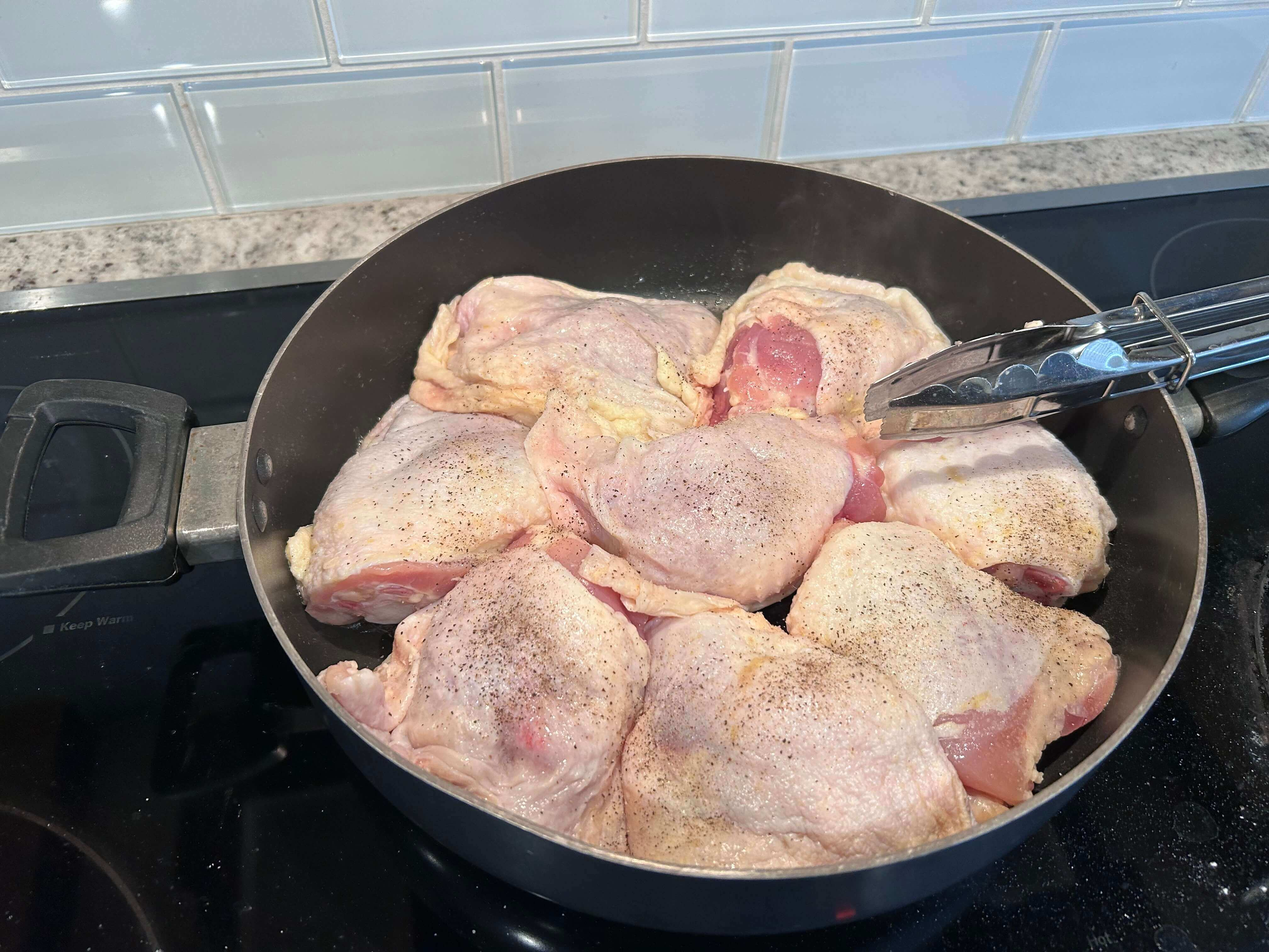
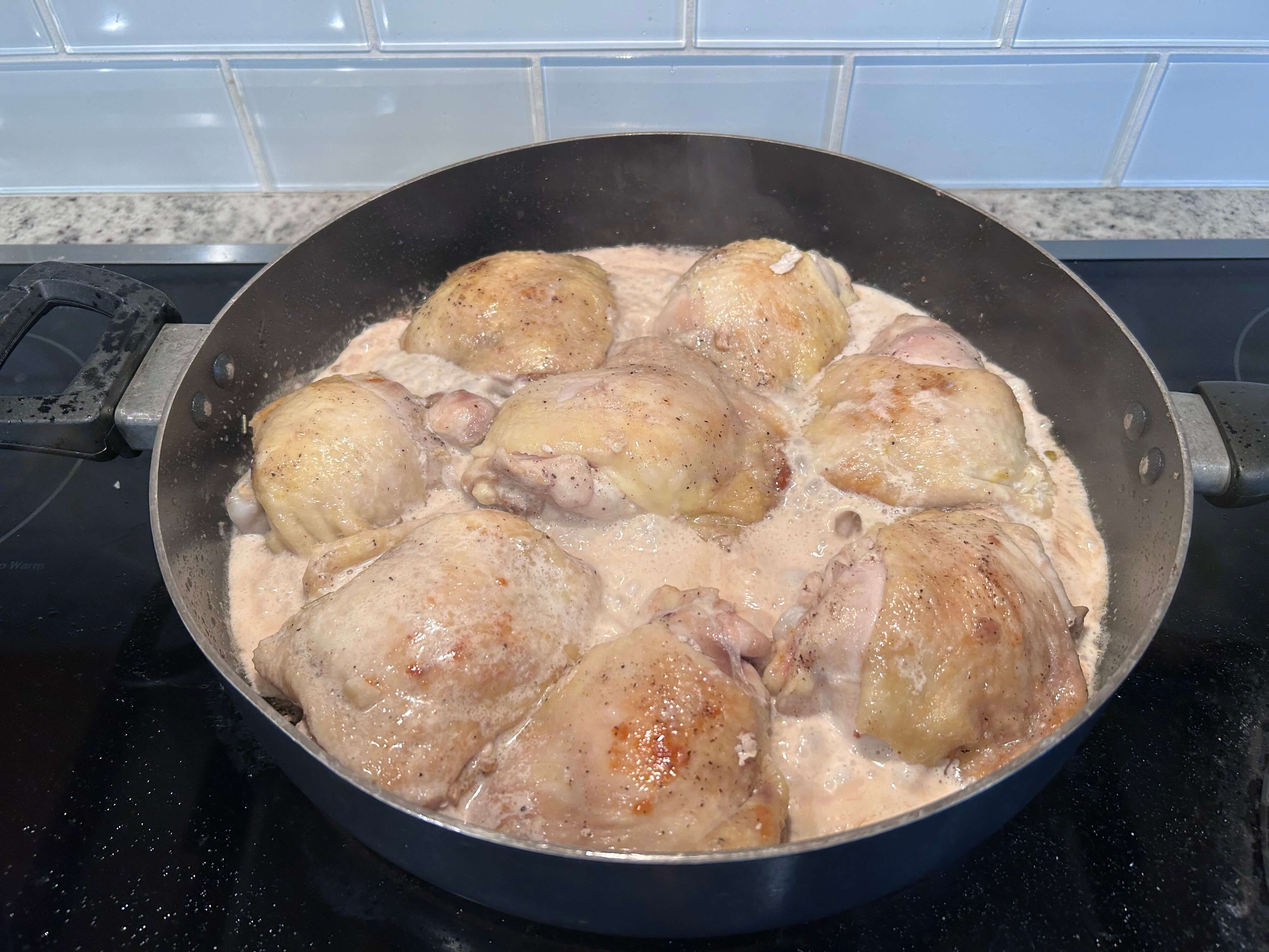
reduce pan fried chicken thigh images

diff --git a/server/data/recipes/pan-fried-chicken-thighs.js b/server/data/recipes/pan-fried-chicken-thighs.js
@@ -1,26 +1,13 @@
 const thigh1 = '../assets/Products/pan-fried-chicken-thigh-1.jpeg';
 const thigh2 = '../assets/Products/pan-fried-chicken-thigh-2.jpeg';
-// const thigh3 = '../assets/Products/pan-fried-chicken-thigh-3.jpeg';
-const thigh4 = '../assets/Products/pan-fried-chicken-thigh-4.jpeg';
-const thigh5 = '../assets/Products/pan-fried-chicken-thigh-5.jpeg';
-const thigh6 = '../assets/Products/pan-fried-chicken-thigh-6.jpeg';
-const thigh7 = '../assets/Products/pan-fried-chicken-thigh-7.jpeg';
-const thigh8 = '../assets/Products/pan-fried-chicken-thigh-8.jpeg';
-// const thigh9 = '../assets/Products/pan-fried-chicken-thigh-9.jpeg';
-const thigh10 = '../assets/Products/pan-fried-chicken-thigh-10.jpeg';
-const thigh11 = '../assets/Products/pan-fried-chicken-thigh-11.jpeg';
-const thigh12 = '../assets/Products/pan-fried-chicken-thigh-12.jpeg';
-const thigh13 = '../assets/Products/pan-fried-chicken-thigh-13.jpeg';
-const thigh14 = '../assets/Products/pan-fried-chicken-thigh-14.jpeg';
-const thigh15 = '../assets/Products/pan-fried-chicken-thigh-15.jpeg';
-// const thigh16 = '../assets/Products/pan-fried-chicken-thigh-16.jpeg';
+
 const { CATEGORIES, GENRES, INGREDIENT_UNITS, METHODS, PROTEIN, REHEAT_METHODS, SECTIONS, STORAGE_CONTAINER, STORAGE_DURATION_UNIT, STORAGE_LOCATION, TIME_UNITS, TYPES, YIELD_UNITS } = require('./constants');
 const { BLACK_PEPPER, CHICKEN_THIGH, FRYING_PAN, GARLIC, PLATE, RED_WINE, ROSEMARY, SALT, SPATULA, STOVE, UNSALTED_BUTTER, WHIPPED_CREAM } = require('./ingredients');
 
 module.exports = {
     cardName: 'Pan-Fried Chicken Thighs',
     name: 'Pan-Fried Chicken Thighs',
-    img: thigh15,
+    img: thigh2,
     available: true,
     category: [CATEGORIES.LUNCH, CATEGORIES.DINNER],
     genre: [GENRES.WESTERN, GENRES.AMERICAN],
@@ -57,19 +44,19 @@ module.exports = {
         PLATE,
     ],
     directions: [
-        { step: `Over medium-high heat, heat butter in frying pan.`, section: SECTIONS.CHICKEN, img: thigh1 },
-        { step: `Brown both sides of the chicken.`, section: SECTIONS.CHICKEN, img: thigh2 },
+        { step: `Over medium-high heat, heat butter in frying pan.`, section: SECTIONS.CHICKEN },
+        { step: `Brown both sides of the chicken.`, section: SECTIONS.CHICKEN },
         { step: `Season with salt and pepper.`, section: SECTIONS.CHICKEN },
         { step: `Reduce to medium heat.`, section: SECTIONS.CHICKEN },
-        { step: `Cover and cook until the chicken is cooked through and reaches an internal temperature of 175ºF (about 10 to 12 minutes).`, section: SECTIONS.CHICKEN, img: [thigh4, thigh5] },
-        { step: `Set aide chicken.`, section: SECTIONS.CHICKEN, img: thigh6 },
-        { step: `Keep drippings in the pan and add wine and garlic.`, section: SECTIONS.SAUCE, img: thigh7 },
-        { step: `Bring to a boil and loosening the browned food particles (deglazing the fond). Cook until wine is reduced by half (about 1 to 2 minutes).`, section: SECTIONS.SAUCE, img: thigh8 },
-        { step: `Stir in cream and rosemary.`, section: SECTIONS.SAUCE, img: thigh10 },
-        { step: `Return to a boil.`, section: SECTIONS.SAUCE, img: thigh11 },
-        { step: `Cook until slightly thickened (about 1 to 2 minutes).`, section: SECTIONS.SAUCE, img: thigh12 },
-        { step: `Re-add the chicken to the pan. Ladle the sauce over the chicken.`, section: SECTIONS.SAUCE, img: thigh13 },
-        { step: `Top the chicken with the creamy sauce and serve with your favorite sides.`, section: SECTIONS.SERVE, img: thigh14 },
+        { step: `Cover and cook until the chicken is cooked through and reaches an internal temperature of 175ºF (about 10 to 12 minutes).`, section: SECTIONS.CHICKEN },
+        { step: `Set aide chicken.`, section: SECTIONS.CHICKEN, img: thigh1 },
+        { step: `Keep drippings in the pan and add wine and garlic.`, section: SECTIONS.SAUCE },
+        { step: `Bring to a boil and loosening the browned food particles (deglazing the fond). Cook until wine is reduced by half (about 1 to 2 minutes).`, section: SECTIONS.SAUCE },
+        { step: `Stir in cream and rosemary.`, section: SECTIONS.SAUCE },
+        { step: `Return to a boil.`, section: SECTIONS.SAUCE },
+        { step: `Cook until slightly thickened (about 1 to 2 minutes).`, section: SECTIONS.SAUCE },
+        { step: `Re-add the chicken to the pan. Ladle the sauce over the chicken.`, section: SECTIONS.SAUCE },
+        { step: `Top the chicken with the creamy sauce and serve with your favorite sides.`, section: SECTIONS.SERVE },
     ],
     store: [
         {
